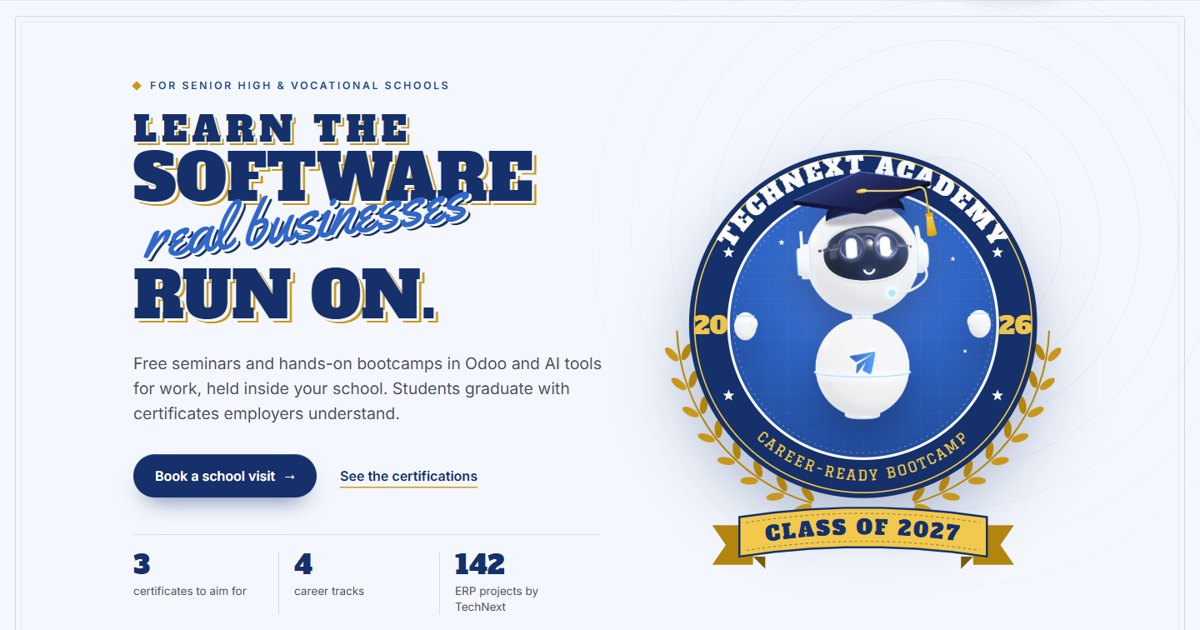
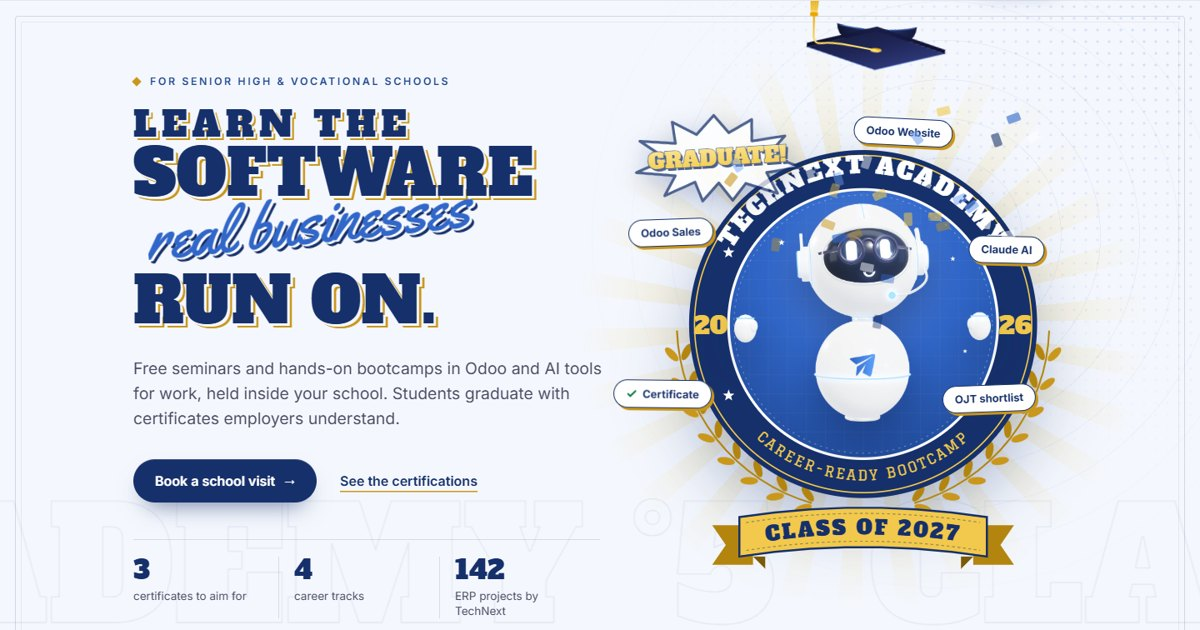
Heavy animated hero: cap-toss loop, comic burst, confetti, floating skill chips, sunburst, marquee

diff --git a/index.html b/index.html
@@ -49,7 +49,7 @@ img{max-width:100%}
 .btn--primary:hover{background:var(--blue-700);transform:translateY(-2px)}
 .btn--primary .arr{display:inline-block;transition:transform .25s}
 .btn--primary:hover .arr{transform:translateX(4px)}
-.nav .btn{min-height:44px;padding:0 20px;font-size:14.5px;color:#fff;white-space:nowrap}
+.nav .btn{min-height:44px;padding:0 20px;font-size:14.5px;color:#fff;white-space:nowrap;gap:0}
 .link{display:inline-flex;align-items:center;min-height:44px;font:600 16px/1 var(--sans);color:var(--navy);text-decoration:none;
   background:linear-gradient(var(--gold),var(--gold)) 0 calc(100% - 8px)/100% 1.5px no-repeat}
 .link:hover{color:var(--blue)}
@@ -70,7 +70,7 @@ img{max-width:100%}
 .hero h1 .l{display:block;text-shadow:.035em .035em 0 var(--paper),.07em .07em 0 var(--gold)}
 .hero h1 .s1{font-size:.56em;letter-spacing:.14em;text-shadow:.05em .05em 0 var(--paper),.1em .1em 0 var(--gold)}
 .hero h1 .scr{position:relative;z-index:1;font-family:var(--script);text-transform:none;color:var(--blue);font-size:1.02em;line-height:1;
-  transform:rotate(-7deg);transform-origin:left center;margin:-.08em 0 -.06em .15em;text-shadow:.03em .03em 0 #fff,.06em .06em 0 var(--navy)}
+  transform:rotate(-6deg);transform-origin:left center;margin:.02em 0 -.02em .2em;text-shadow:.03em .03em 0 #fff,.06em .06em 0 var(--navy)}
 .hero .sub{font-size:clamp(1.05rem,1.35vw,1.22rem);line-height:1.55;max-width:48ch;margin:0 0 34px;text-wrap:pretty}
 .ctas{display:flex;align-items:center;gap:28px;flex-wrap:wrap}
 .proof{display:flex;margin:44px 0 0;padding:20px 0 0;border-top:1px solid rgba(22,48,107,.14);max-width:560px}
@@ -79,13 +79,43 @@ img{max-width:100%}
 .proof b{display:block;font:400 32px/1 var(--serif);color:var(--navy)}
 .proof span{display:block;font-size:13.5px;line-height:1.35;margin-top:6px;color:var(--body)}
 
-/* visual: varsity badge + Nexi */
-.hero__visual{position:relative;margin:0;width:100%;max-width:560px;justify-self:center;aspect-ratio:600/680}
-.hero__visual svg{position:absolute;inset:0;width:100%;height:100%;overflow:visible}
-.badge-back{filter:drop-shadow(0 30px 36px rgba(22,48,107,.30))}
-.badge-back .ringtxt{animation:none}
-.nexi{position:absolute;z-index:2;left:18.5%;top:14.5%;width:63%;height:auto;filter:drop-shadow(0 22px 24px rgba(10,22,60,.40))}
-.badge-front{z-index:3}
+/* visual: varsity badge + Nexi (heavy, animated) */
+.hero__visual{position:relative;margin:0;width:100%;max-width:560px;justify-self:center;aspect-ratio:600/680;isolation:isolate}
+.badge-back,.badge-front{position:absolute;inset:0;width:100%;height:100%;overflow:visible}
+.sunburst{position:absolute;z-index:0;left:50%;top:45.6%;width:150%;aspect-ratio:1;translate:-50% -50%;border-radius:50%;
+  background:repeating-conic-gradient(from 0deg,rgba(242,201,76,.30) 0 5deg,transparent 5deg 12deg);
+  -webkit-mask-image:radial-gradient(circle,#000 22%,transparent 66%);mask-image:radial-gradient(circle,#000 22%,transparent 66%);
+  animation:spin 70s linear infinite}
+.badge-back{z-index:2;filter:drop-shadow(0 30px 36px rgba(22,48,107,.30))}
+.badge-front{z-index:4;pointer-events:none}
+.nexi-wrap{position:absolute;z-index:3;left:18.5%;top:14.5%;width:63%;aspect-ratio:960/929;transform-origin:50% 100%}
+.nexi-base{display:block;width:100%;height:auto;filter:drop-shadow(0 22px 24px rgba(10,22,60,.40))}
+.nexi-wrap .cap{position:absolute;inset:0;width:100%;height:100%;overflow:visible;transform-origin:50.6% 8.8%}
+.speed{position:absolute;left:0;top:-30%;width:100%;height:45%;opacity:0;pointer-events:none}
+.speed path{fill:none;stroke:#fff;stroke-width:1.4;stroke-linecap:round;vector-effect:non-scaling-stroke}
+.pow{position:absolute;z-index:6;left:-12%;top:-3%;width:50%;height:auto;opacity:0;transform:scale(.2) rotate(-14deg);transform-origin:80% 90%;pointer-events:none;
+  filter:drop-shadow(0 10px 16px rgba(22,48,107,.35))}
+.confetti{position:absolute;inset:0;z-index:7;pointer-events:none;overflow:visible}
+.confetti i{position:absolute;left:50%;top:30%;width:10px;height:16px;border-radius:2px;opacity:0}
+.glint{position:absolute;z-index:6;left:47%;top:11%;width:46px;height:46px;opacity:0;pointer-events:none;
+  background:conic-gradient(from 45deg,transparent 0 20%,#fff 25%,transparent 30% 45%,#fff 50%,transparent 55% 70%,#fff 75%,transparent 80% 95%,#fff 100%);
+  -webkit-mask-image:radial-gradient(circle,#000 10%,transparent 62%);mask-image:radial-gradient(circle,#000 10%,transparent 62%)}
+.orbit{position:absolute;inset:0;pointer-events:none}
+.chip{position:absolute;display:inline-flex;align-items:center;gap:6px;white-space:nowrap;
+  font:700 13px/1 var(--sans);color:var(--navy);background:#fff;border:1.5px solid var(--navy);border-radius:999px;padding:9px 14px;
+  box-shadow:3px 3px 0 var(--gold);translate:-50% -50%;z-index:5}
+.chip svg{width:14px;height:14px;fill:none;stroke:var(--ok);stroke-width:2.4;stroke-linecap:round;stroke-linejoin:round}
+.hero__bg .marquee{position:absolute;left:0;bottom:6%;display:flex;white-space:nowrap;animation:marq 60s linear infinite;
+  font:400 clamp(90px,13vw,190px)/1 var(--serif);color:transparent;-webkit-text-stroke:1.5px rgba(22,48,107,.07)}
+.hero__bg .marquee::before,.hero__bg .marquee::after{content:"ACADEMY °5  CLASS OF 2027 °5  ACADEMY °5  CLASS OF 2027 °5  ";white-space:pre;padding-right:.3em}
+@keyframes marq{to{transform:translateX(-50%)}}
+.hero__bg .halftone{position:absolute;right:0;top:0;width:46%;height:70%;
+  background:radial-gradient(circle,rgba(49,103,202,.16) 1.4px,transparent 1.8px) 0 0/14px 14px;
+  -webkit-mask-image:radial-gradient(ellipse at 100% 0,#000 10%,transparent 70%);mask-image:radial-gradient(ellipse at 100% 0,#000 10%,transparent 70%)}
+.chip:nth-child(1){left:3%;top:24%}.chip:nth-child(2){right:-4%;top:31%}.chip:nth-child(3){left:1%;top:60%}
+.chip:nth-child(4){right:-4%;top:62%}.chip:nth-child(5){left:60%;top:4%}
+@media(max-width:1100px){.chip:nth-child(1){left:0}.chip:nth-child(2){right:0}.chip:nth-child(3){left:0}.chip:nth-child(4){right:0}}
+@media(max-width:520px){.chip{font-size:11px;padding:7px 10px;translate:none}.chip:nth-child(5){display:none}.pow{width:52%;left:-4%;top:-4%}}
 @media(max-width:900px){
   .hero__in{grid-template-columns:1fr;min-height:auto;padding-top:40px}
   .hero__visual{max-width:460px;margin:0 auto}
@@ -213,13 +243,13 @@ footer .brand img{height:24px}
   </a>
   <nav class="nav" aria-label="Main">
     <a href="#certifications">Certifications</a><a href="#tracks">Tracks</a><a href="#schools">For schools</a>
-    <a class="btn btn--primary" href="#book">Book<span class="hide-sm"> a visit</span></a>
+    <a class="btn btn--primary" href="#book">Book<span class="hide-sm">&nbsp;a visit</span></a>
   </nav>
 </div></header>
 
 <main id="main">
 <section class="hero" id="hero" aria-labelledby="hero-title">
-  <div class="hero__bg" aria-hidden="true"><div class="rays"></div><div class="frame"></div></div>
+  <div class="hero__bg" aria-hidden="true"><div class="rays"></div><div class="marquee"></div><div class="halftone"></div><div class="frame"></div></div>
   <div class="wrap hero__in">
     <div class="hero__copy">
       <p class="eyebrow sc" data-in>For Senior High &amp; vocational schools</p>
@@ -230,12 +260,13 @@ footer .brand img{height:24px}
         <a class="link" href="#certifications">See the certifications</a>
       </div>
       <div class="proof" data-in>
-        <div><b>3</b><span>certificates to aim for</span></div>
-        <div><b>4</b><span>career tracks</span></div>
-        <div><b>142</b><span>ERP projects by TechNext</span></div>
+        <div><b data-count="3">3</b><span>certificates to aim for</span></div>
+        <div><b data-count="4">4</b><span>career tracks</span></div>
+        <div><b data-count="142">142</b><span>ERP projects by TechNext</span></div>
       </div>
     </div>
     <figure class="hero__visual" data-in-visual>
+<div class="sunburst" aria-hidden="true"></div>
 <svg class="badge-back" viewBox="-20 -20 600 680" aria-hidden="true">
 <defs>
  <radialGradient id="bin" cx=".5" cy=".3" r=".8"><stop offset="0" stop-color="#5A8DEA"/><stop offset=".45" stop-color="#3167CA"/><stop offset="1" stop-color="#1E4691"/></radialGradient>
@@ -257,7 +288,12 @@ footer .brand img{height:24px}
 <polygon points="82.2,386.2 84.4,392.1 90.8,392.4 85.8,396.3 87.5,402.4 82.2,398.9 76.9,402.4 78.6,396.3 73.7,392.4 80.0,392.1" fill="#FFFFFF"/><polygon points="82.2,175.8 84.4,181.8 90.8,182.1 85.8,186.0 87.5,192.1 82.2,188.6 76.9,192.1 78.6,186.0 73.7,182.1 80.0,181.8" fill="#FFFFFF"/><polygon points="477.8,386.2 480.0,392.1 486.3,392.4 481.4,396.3 483.1,402.4 477.8,398.9 472.5,402.4 474.2,396.3 469.2,392.4 475.6,392.1" fill="#FFFFFF"/><polygon points="477.8,175.8 480.0,181.8 486.3,182.1 481.4,186.0 483.1,192.1 477.8,188.6 472.5,192.1 474.2,186.0 469.2,182.1 475.6,181.8" fill="#FFFFFF"/>
 <polygon points="160.0,165.0 161.2,168.3 164.8,168.5 162.0,170.6 162.9,174.0 160.0,172.1 157.1,174.0 158.0,170.6 155.2,168.5 158.8,168.3" fill="#fff"/><polygon points="412.0,190.0 413.0,192.6 415.8,192.8 413.6,194.5 414.4,197.2 412.0,195.7 409.6,197.2 410.4,194.5 408.2,192.8 411.0,192.6" fill="#fff"/><polygon points="430.0,326.5 430.9,328.8 433.3,328.9 431.4,330.5 432.1,332.8 430.0,331.5 427.9,332.8 428.6,330.5 426.7,328.9 429.1,328.8" fill="#fff"/>
 </svg>
-<img class="nexi" src="assets/nexi-grad.webp" width="960" height="929" alt="Nexi, the TechNext Academy mascot, in glasses and a graduation cap" fetchpriority="high" decoding="async">
+<div class="orbit" aria-hidden="true"><span class="chip">Odoo Sales</span><span class="chip">Claude AI</span><span class="chip"><svg viewBox="0 0 16 16"><path d="M3 8.5l3 3 7-7"/></svg>Certificate</span><span class="chip">OJT shortlist</span><span class="chip">Odoo Website</span></div>
+<div class="nexi-wrap">
+  <img class="nexi-base" src="assets/nexi-base.webp" width="960" height="929" alt="Nexi, the TechNext Academy mascot, in glasses and a graduation cap" fetchpriority="high" decoding="async">
+  <svg class="speed" viewBox="0 0 100 100" preserveAspectRatio="none" aria-hidden="true"><path d="M38 40V8M50 36V2M62 40V8M44 30V12M56 30V12"/></svg>
+  <svg class="cap" viewBox="0 197 1560 1510" aria-hidden="true"><defs> <linearGradient id="cap-skull" x1="0" y1="0" x2="1" y2="0"> <stop offset="0" stop-color="#14183a"/><stop offset=".45" stop-color="#2b3470"/><stop offset="1" stop-color="#10132e"/></linearGradient> <linearGradient id="cap-board" x1="0" y1="0" x2="1" y2="1"> <stop offset="0" stop-color="#3a4690"/><stop offset=".55" stop-color="#1f2556"/><stop offset="1" stop-color="#151938"/></linearGradient> <linearGradient id="cap-edge" x1="0" y1="0" x2="1" y2="0"> <stop offset="0" stop-color="#0d1030"/><stop offset=".5" stop-color="#1a1f4a"/><stop offset="1" stop-color="#0b0d26"/></linearGradient> <linearGradient id="cap-gold" x1="0" y1="0" x2="0" y2="1"> <stop offset="0" stop-color="#FFE27A"/><stop offset="1" stop-color="#E9A800"/></linearGradient> <radialGradient id="cap-shade" cx=".5" cy="0" r=".9"><stop offset="0" stop-color="#000" stop-opacity=".28"/><stop offset="1" stop-color="#000" stop-opacity="0"/></radialGradient> <filter id="cap-soft"><feGaussianBlur stdDeviation="10"/></filter> </defs><g transform="rotate(-8 790 420)"> <path d="M548 470 C548 380 640 344 790 344 C940 344 1032 380 1032 470 C980 452 890 444 790 444 C690 444 600 452 548 470Z" fill="url(#cap-skull)"/> <path d="M560 462 C620 448 700 440 790 440 C880 440 960 448 1020 462" fill="none" stroke="#3167CA" stroke-width="6" opacity=".75"/> <path d="M370 318 L790 438 L1210 318 L1210 342 L790 462 L370 342Z" fill="url(#cap-edge)"/> <path d="M370 318 L790 198 L1210 318 L790 438Z" fill="url(#cap-board)"/> <path d="M370 318 L790 198 L1210 318" fill="none" stroke="#6FA0F5" stroke-width="5" opacity=".7" stroke-linejoin="round"/> <path d="M370 318 L790 438 L1210 318" fill="none" stroke="#0b0d26" stroke-width="3" opacity=".6"/> <ellipse cx="790" cy="318" rx="34" ry="13" fill="url(#cap-gold)"/> <path d="M790 318 C900 330 1030 360 1120 344 C1150 338 1168 350 1172 380 L1176 520" fill="none" stroke="url(#cap-gold)" stroke-width="11" stroke-linecap="round"/> <path d="M1158 516 L1194 516 L1206 640 C1190 652 1162 652 1146 640Z" fill="url(#cap-gold)"/> <rect x="1152" y="506" width="48" height="24" rx="8" fill="#E9A800"/> <path d="M1160 540 L1156 640 M1172 540 L1170 646 M1184 540 L1186 646 M1196 540 L1198 640" stroke="#C98C00" stroke-width="3" opacity=".7"/> </g></svg>
+</div>
 <svg class="badge-front" viewBox="-20 -20 600 680" aria-hidden="true">
 <path d="M58 586 L118 586 L118 644 L58 644 L78 615 Z" fill="#B3850F"/>
 <path d="M502 586 L442 586 L442 644 L502 644 L482 615 Z" fill="#B3850F"/>
@@ -269,6 +305,14 @@ footer .brand img{height:24px}
 <path id="ribText" d="M118 613 Q280 586 442 613" fill="none"/>
 <text font-family="'Alfa Slab One',serif" font-size="30" letter-spacing="3" fill="#16306B"><textPath href="#ribText" startOffset="50%" text-anchor="middle">CLASS OF 2027</textPath></text>
 </svg>
+<svg class="pow" viewBox="0 0 340 170" aria-hidden="true">
+  <defs><linearGradient id="powfill" x1="0" y1="0" x2="0" y2="1"><stop offset="0" stop-color="#FFE27A"/><stop offset="1" stop-color="#F2B705"/></linearGradient></defs>
+  <polygon points="170,6 196,40 240,18 238,58 300,52 266,86 326,112 262,118 280,158 222,136 196,166 172,132 140,164 128,128 70,150 92,114 20,104 78,82 30,46 96,54 92,14 136,40" fill="#fff" stroke="#16306B" stroke-width="5" stroke-linejoin="round"/>
+  <text x="172" y="100" text-anchor="middle" font-family="'Alfa Slab One',serif" font-size="40" fill="#16306B" transform="translate(4 4)">GRADUATE!</text>
+  <text x="172" y="100" text-anchor="middle" font-family="'Alfa Slab One',serif" font-size="40" fill="url(#powfill)" stroke="#16306B" stroke-width="2.5" paint-order="stroke">GRADUATE!</text>
+</svg>
+<div class="confetti" aria-hidden="true"></div>
+<div class="glint" aria-hidden="true"></div>
 </figure>
   </div>
 </section>
@@ -398,12 +442,70 @@ footer .brand img{height:24px}
   var reduce=matchMedia('(prefers-reduced-motion: reduce)').matches;
   window.addEventListener('DOMContentLoaded',function(){
     if(reduce||!window.Motion)return;
-    var M=window.Motion,root=document.documentElement;
+    var M=window.Motion,root=document.documentElement,$=function(q){return document.querySelector(q)};
     root.classList.add('js-anim');
-    M.animate('[data-in]',{opacity:[0,1],y:[18,0]},{duration:.6,delay:M.stagger(.08),ease:[.2,.8,.2,1]});
-    M.animate('[data-in-visual]',{opacity:[0,1],scale:[.96,1]},{duration:.9,delay:.25,ease:[.2,.8,.2,1]});
-    M.animate('.nexi',{y:[0,-12,0]},{duration:5,repeat:Infinity,ease:'easeInOut',delay:1.2});
-    setTimeout(function(){root.classList.remove('js-anim')},2000);
+    var ease=[.2,.8,.2,1];
+    /* entrance: eyebrow, varsity stamp per line, script writes on, then the rest */
+    M.animate('.hero__copy .eyebrow',{opacity:[0,1],x:[-16,0]},{duration:.5,ease:ease});
+    var lines=document.querySelectorAll('#hero-title .l');
+    lines.forEach(function(l){l.style.opacity=0});
+    M.animate('#hero-title',{opacity:[0,1]},{duration:.01});
+    lines.forEach(function(l,i){
+      if(l.classList.contains('scr')){M.animate(l,{clipPath:['inset(0 100% 0 0)','inset(0 0% 0 0)'],opacity:[0,1]},{duration:.7,delay:.15+i*.16,ease:'easeOut'});return;}
+      M.animate(l,{opacity:[0,1],scale:[1.35,1],filter:['blur(6px)','blur(0px)']},{duration:.42,delay:.15+i*.16,ease:[.3,1.4,.5,1]});
+    });
+    setTimeout(function(){M.animate('#hero-title',{x:[0,-4,4,-2,0]},{duration:.3})},880);
+    M.animate('.hero__copy .sub, .hero__copy .ctas, .hero__copy .proof',{opacity:[0,1],y:[18,0]},{duration:.6,delay:M.stagger(.1,{startDelay:.8}),ease:ease});
+    M.animate('[data-in-visual]',{opacity:[0,1],scale:[.9,1],rotate:[-6,0]},{duration:1,delay:.3,ease:[.3,1.3,.5,1]});
+    setTimeout(function(){root.classList.remove('js-anim')},2200);
+    /* count up */
+    document.querySelectorAll('[data-count]').forEach(function(b){var n=+b.dataset.count;M.animate(0,n,{duration:1.2,delay:1.1,ease:'easeOut',onUpdate:function(v){b.textContent=Math.round(v)}})});
+    /* idle bob */
+    document.querySelector('.nexi-wrap').animate([{translate:'0 0'},{translate:'0 -10px'},{translate:'0 0'}],{duration:4000,iterations:Infinity,easing:'ease-in-out',delay:1400});
+    /* skill chips float around the badge edge, each on its own bob */
+    var chips=[].slice.call(document.querySelectorAll('.chip'));
+    M.animate(chips,{opacity:[0,1],scale:[.4,1]},{duration:.5,delay:M.stagger(.12,{startDelay:1.3}),ease:[.3,1.5,.5,1]});
+    chips.forEach(function(c,i){M.animate(c,{y:[0,i%2?-10:10,0],rotate:[i%2?-3:3,i%2?2:-2,i%2?-3:3]},{duration:3+i*.4,repeat:Infinity,ease:'easeInOut',delay:1.8+i*.3})});
+    /* the graduation: hop, cap toss with speed lines, comic burst, confetti, catch + glint */
+    var cols=['#F2C94C','#3167CA','#16306B','#fff','#C9971C','#6FA0F5'],conf=$('.confetti');
+    function confetti(){
+      for(var i=0;i<30;i++){
+        var c=document.createElement('i');c.style.background=cols[i%cols.length];conf.appendChild(c);
+        var dx=(Math.random()-.5)*520,up=-(140+Math.random()*200),rot=(Math.random()-.5)*900;
+        var an=c.animate([{opacity:1,transform:'translate(0,0) rotate(0deg)'},{opacity:1,transform:'translate('+dx*.6+'px,'+up+'px) rotate('+rot*.5+'deg)',offset:.4},{opacity:0,transform:'translate('+dx+'px,'+(up+380)+'px) rotate('+rot+'deg)'}],{duration:1800+Math.random()*600,easing:'ease-out'});
+        an.onfinish=(function(e){return function(){e.remove()}})(c);
+      }
+    }
+    function graduate(){
+      if(document.hidden)return;
+      var q=function(x){return document.querySelector(x)};
+      q('.nexi-wrap').animate([{transform:'scale(1,1)'},{transform:'scale(1.08,.9)'},{transform:'scale(.95,1.08) translateY(-14px)'},{transform:'scale(1,1)'}],{duration:550,easing:'ease-out'});
+      q('.nexi-wrap .cap').animate([
+        {transform:'translate(0,0) rotate(0deg)',easing:'cubic-bezier(.2,.8,.3,1)'},
+        {transform:'translate(6%,-62%) rotate(-200deg)',offset:.38,easing:'linear'},
+        {transform:'translate(4%,-62%) rotate(-520deg)',offset:.55,easing:'cubic-bezier(.6,0,.9,.4)'},
+        {transform:'translate(0,0) rotate(-720deg)'}],{duration:1900,delay:180,fill:'both'});
+      q('.speed').animate([{opacity:0,transform:'translateY(0)'},{opacity:1},{opacity:0,transform:'translateY(-20%)'}],{duration:600,delay:200});
+      q('.pow').animate([
+        {opacity:0,transform:'scale(.2) rotate(-14deg)'},
+        {opacity:1,transform:'scale(1.15) rotate(-6deg)',offset:.18},
+        {opacity:1,transform:'scale(1) rotate(-6deg)',offset:.8},
+        {opacity:0,transform:'scale(.6) rotate(4deg)'}],{duration:1700,delay:350,easing:'ease-out'});
+      setTimeout(confetti,420);
+      setTimeout(function(){
+        q('.nexi-wrap').animate([{transform:'scale(1,1)'},{transform:'scale(1.05,.94)'},{transform:'scale(1,1)'}],{duration:300});
+        q('.glint').animate([{opacity:0,transform:'scale(.3) rotate(0deg)'},{opacity:1,transform:'scale(1.3) rotate(45deg)'},{opacity:0,transform:'scale(.6) rotate(90deg)'}],{duration:700});
+      },2100);
+    }
+    setTimeout(graduate,1800);setInterval(graduate,7000);
+    /* pointer parallax on the badge */
+    var vis=$('.hero__visual');
+    if(matchMedia('(pointer:fine)').matches){
+      vis.parentElement.addEventListener('pointermove',function(e){
+        var r=vis.getBoundingClientRect(),px=(e.clientX-r.left)/r.width-.5,py=(e.clientY-r.top)/r.height-.5;
+        vis.style.transform='perspective(900px) rotateY('+(px*6)+'deg) rotateX('+(-py*6)+'deg)';
+      });
+    }
   });
 })();
 </script>
